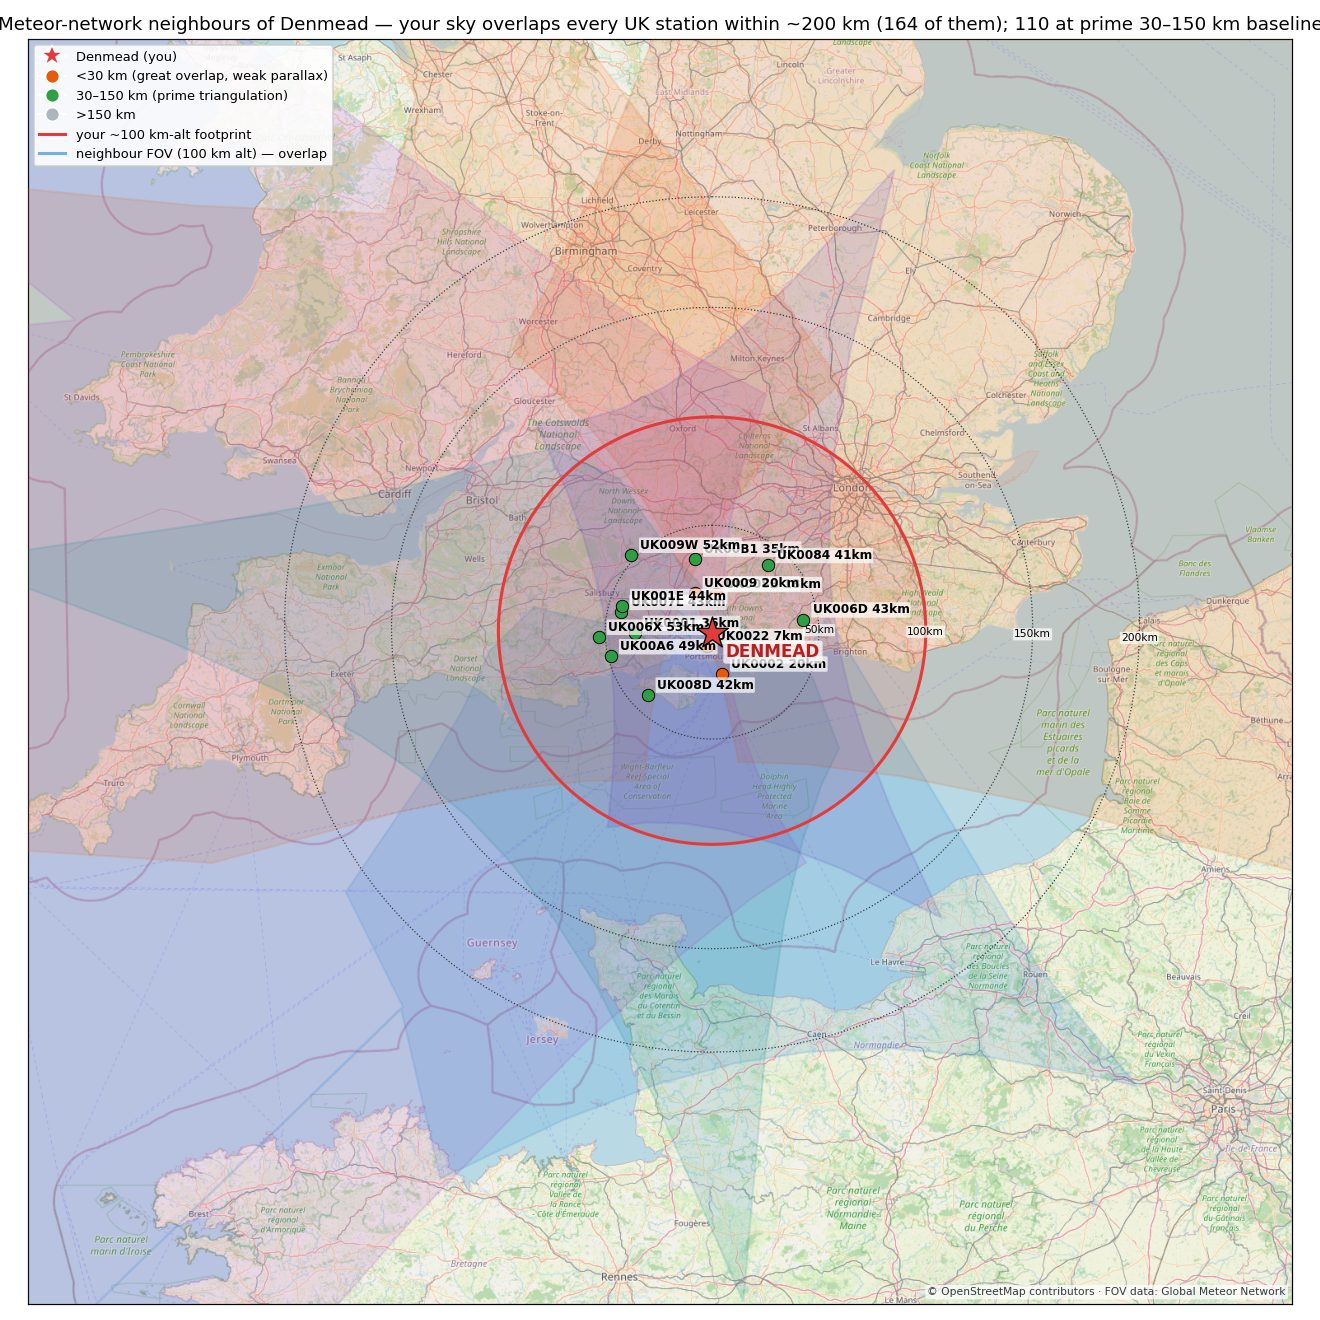
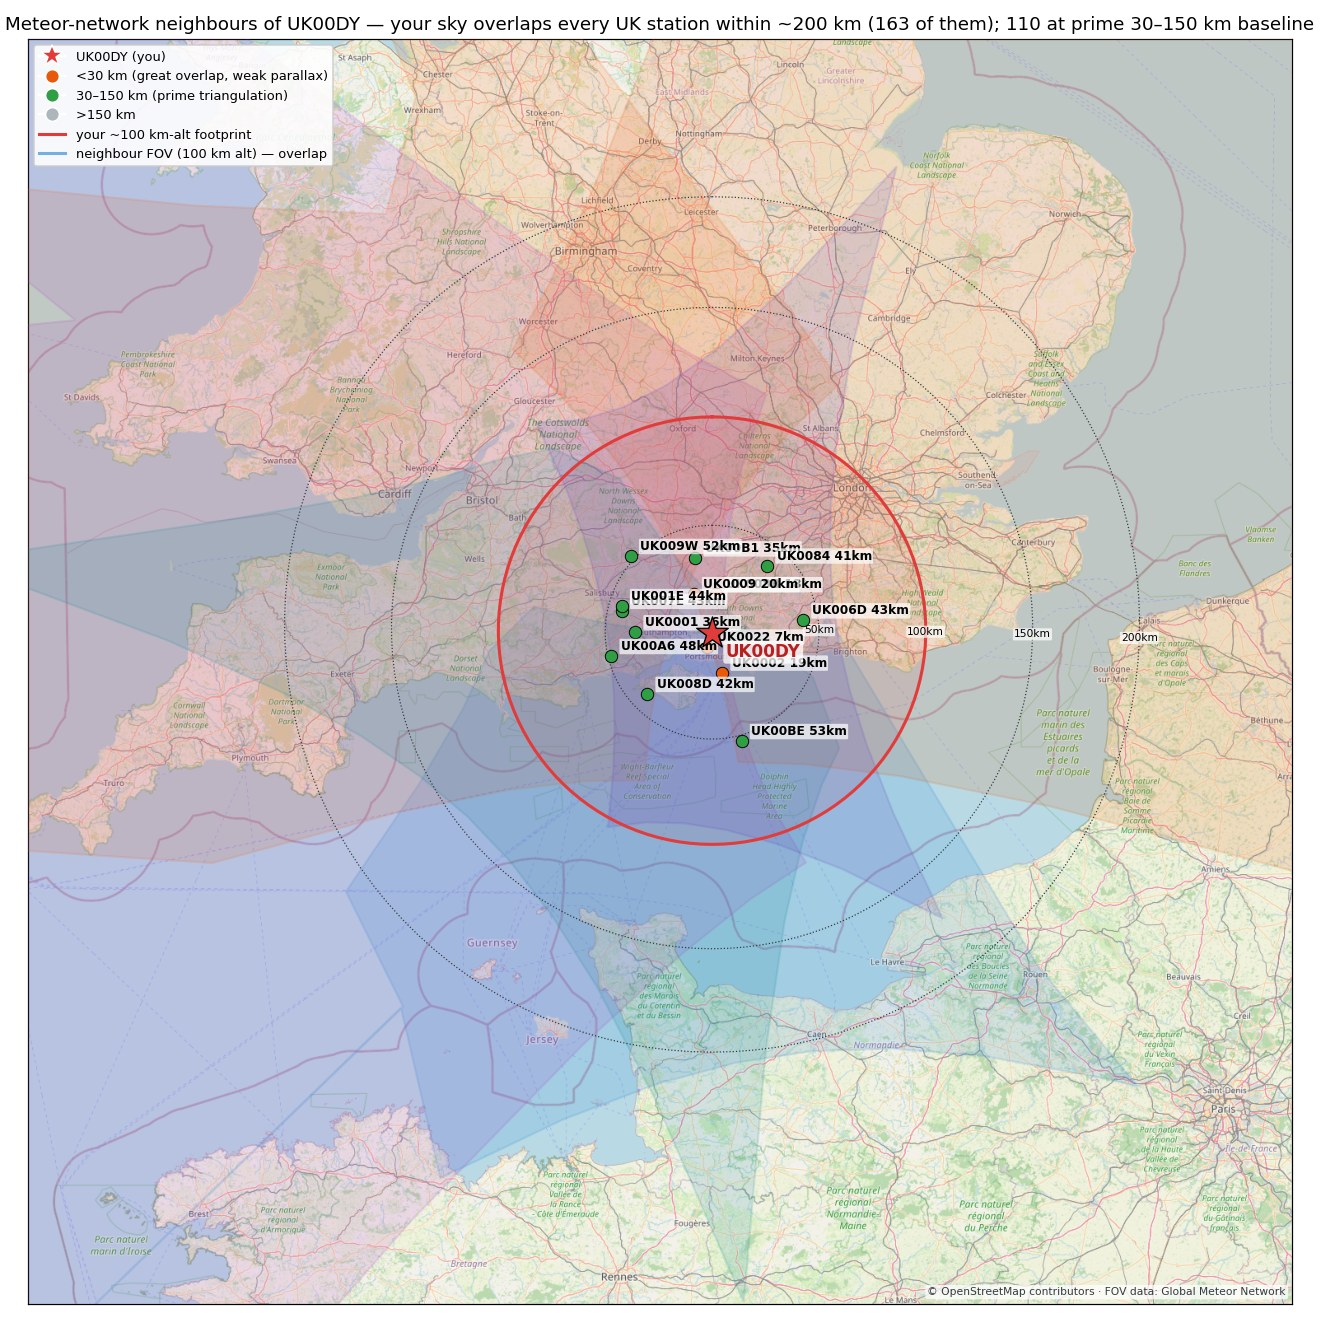
privacy: fuzz all published station coordinates to ~1 km
Requested by the GMN UK coordinator: operators have faced stalking and
harassment, and GMN/UKMON policy is that camera sites must not be
locatable finer than ~1 km. uk_stations.csv (KML-derived centroids) and
everything neighbours.json publishes — including this station's own
position — now round to 2 dp. Full precision lives only in the local
RMS .config.

Changed region(s): [[0.0, 0.0, 1.0, 0.0621], [0.4348, 0.4038, 0.6833, 0.5591]]

diff --git a/make_neighbours_map.py b/make_neighbours_map.py
@@ -216,9 +216,13 @@ ax.text(0.995,0.005,"© OpenStreetMap contributors · FOV data: Global Meteor Ne
         bbox=dict(boxstyle="round,pad=0.2", fc="white", ec="none", alpha=0.75))
 plt.tight_layout(); plt.savefig(os.path.join(HERE,"neighbours_map.png"), dpi=110)
 
-out={"lat":MLAT,"lon":MLON,"user_footprint_km":USER_R_KM,"total_uk":len(st),
+# Published coordinates are FUZZED to 2 dp (~1 km) — GMN/UKMON policy: camera
+# operators have faced stalking/harassment, so sites must not be locatable finer
+# than ~1 km from anything this dashboard serves (requested by the GMN UK
+# coordinator, 2026-08-20). Full precision stays in the local .config only.
+out={"lat":round(MLAT,2),"lon":round(MLON,2),"user_footprint_km":USER_R_KM,"total_uk":len(st),
      "within_50":n50,"within_100":n100,"within_200":n200,"prime_30_150":nprime,
      "nearest":[{"code":s["code"],"dist":round(s["dist"],1),"brg":s["brg"],
-                 "lat":round(s["lat"],4),"lon":round(s["lon"],4),"band":s["band"]} for s in st[:20]]}
+                 "lat":round(s["lat"],2),"lon":round(s["lon"],2),"band":s["band"]} for s in st[:20]]}
 json.dump(out, open(os.path.join(HERE,"neighbours.json"),"w"), indent=1)
 print(f"done: within200={n200} prime={nprime}; wrote neighbours_map.png + neighbours.json")
